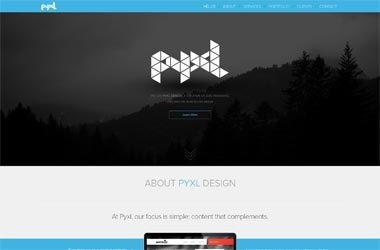
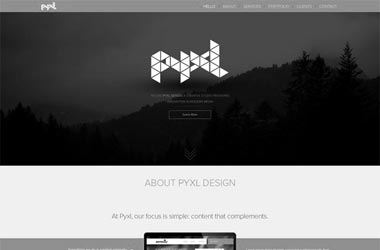
Black and white portfolio items

diff --git a/src/css/style.less b/src/css/style.less
@@ -203,7 +203,7 @@ p {
 			content: "";
 			top: 0;
 			bottom: 0;
-			box-shadow: inset 0 10px 100px rgba(0, 0, 0, 0.75);
+			box-shadow: inset 0 20px 150px rgba(0,0,0,1);
 		}
 
 		&:hover {
@@ -213,7 +213,7 @@ p {
 			}
 
 			&:before {
-				box-shadow: inset 0 100px 150px rgba(0, 0, 0, 0.75);
+				box-shadow: inset 0 100px 150px rgba(0, 0, 0, 1);
 			}
 		}
 	}
